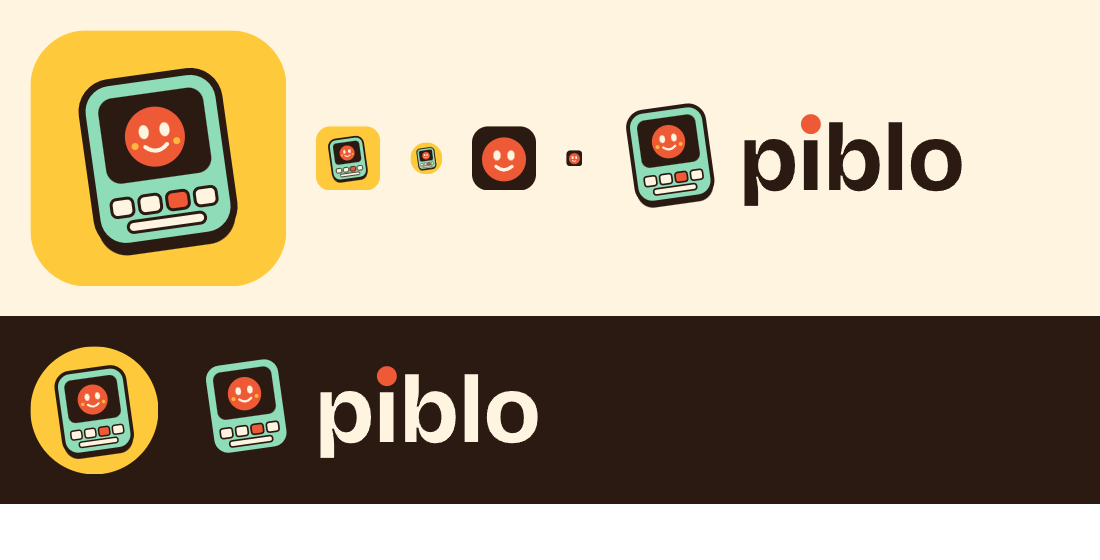
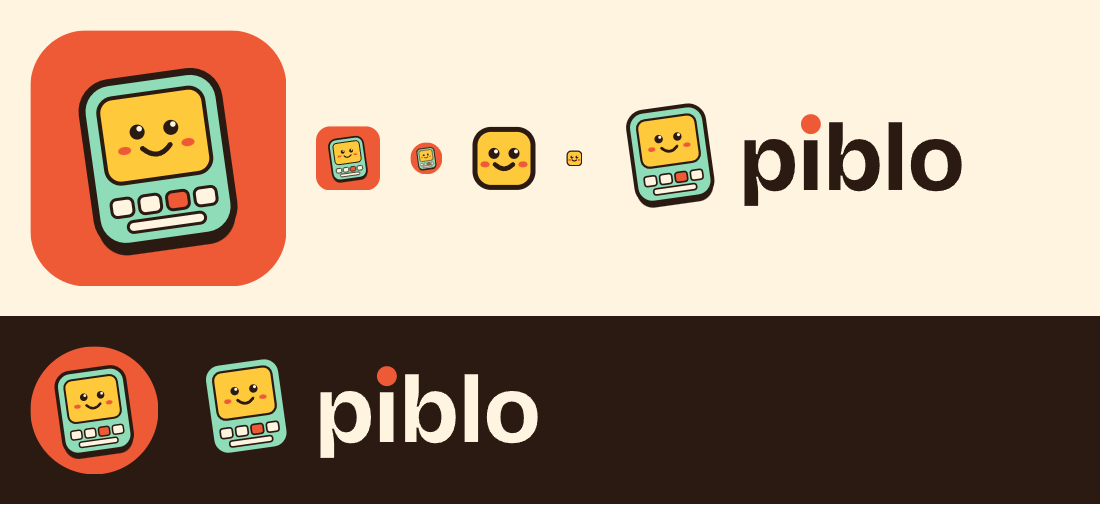
Brand v2: friendly screen-face Buddy (v1 read as creepy)
Claude-Session: https://claude.ai/code/session_01CpLvAvDdWL7C7trph2i8xh

diff --git a/design/brand/make.js b/design/brand/make.js
@@ -5,18 +5,36 @@ const font = opentype.loadSync(__dirname + '/../../site/fonts/bricolage-grotesqu
 const C = { paper: '#fff4e0', ink: '#2a1a12', tomato: '#ee5a36', mint: '#8fdcb8', sun: '#ffc93c' };
 
 // Buddy device drawn in a 512 box. bg=false gives a transparent version for the logo.
-function device(bg = true) {
-  return `${bg ? `<rect width="512" height="512" rx="112" fill="${C.sun}"/>` : ''}
+// Friendly faces on a bright screen (v1's pale eyes on a dark screen read as creepy).
+const FACES = {
+  // A: happy closed eyes + open grin
+  happy: `<rect x="150" y="124" width="212" height="172" rx="30" fill="${C.paper}" stroke="${C.ink}" stroke-width="8"/>
+    <circle cx="256" cy="212" r="64" fill="${C.tomato}" stroke="${C.ink}" stroke-width="8"/>
+    <path d="M222 204 Q234 188 246 204 M266 204 Q278 188 290 204" fill="none" stroke="${C.ink}" stroke-width="9" stroke-linecap="round"/>
+    <path d="M230 222 Q256 258 282 222 Z" fill="${C.ink}" stroke="${C.ink}" stroke-width="6" stroke-linejoin="round"/>
+    <circle cx="214" cy="228" r="9" fill="${C.sun}"/><circle cx="298" cy="228" r="9" fill="${C.sun}"/>`,
+  // B: round shiny eyes + wide smile
+  bright: `<rect x="150" y="124" width="212" height="172" rx="30" fill="${C.paper}" stroke="${C.ink}" stroke-width="8"/>
+    <circle cx="256" cy="212" r="64" fill="${C.tomato}" stroke="${C.ink}" stroke-width="8"/>
+    <circle cx="233" cy="202" r="12" fill="${C.ink}"/><circle cx="279" cy="202" r="12" fill="${C.ink}"/>
+    <circle cx="237" cy="197" r="4.5" fill="${C.paper}"/><circle cx="283" cy="197" r="4.5" fill="${C.paper}"/>
+    <path d="M232 228 Q256 250 280 228" fill="none" stroke="${C.ink}" stroke-width="9" stroke-linecap="round"/>
+    <circle cx="212" cy="228" r="8" fill="${C.sun}"/><circle cx="300" cy="228" r="8" fill="${C.sun}"/>`,
+  // C: face drawn on the screen itself, Tamagotchi style
+  screen: `<rect x="150" y="124" width="212" height="172" rx="30" fill="${C.sun}" stroke="${C.ink}" stroke-width="8"/>
+    <circle cx="222" cy="198" r="15" fill="${C.ink}"/><circle cx="290" cy="198" r="15" fill="${C.ink}"/>
+    <circle cx="227" cy="192" r="5.5" fill="${C.paper}"/><circle cx="295" cy="192" r="5.5" fill="${C.paper}"/>
+    <path d="M228 232 Q256 262 284 232" fill="none" stroke="${C.ink}" stroke-width="10" stroke-linecap="round"/>
+    <ellipse cx="192" cy="232" rx="13" ry="8" fill="${C.tomato}"/><ellipse cx="320" cy="232" rx="13" ry="8" fill="${C.tomato}"/>`,
+};
+let FACE = 'screen';
+function device(bg = true, face = FACE) {
+  const bgFill = face === 'screen' ? C.tomato : C.sun;
+  return `${bg ? `<rect width="512" height="512" rx="112" fill="${bgFill}"/>` : ''}
   <g transform="rotate(-8 256 262)">
     <rect x="118" y="110" width="276" height="330" rx="58" fill="${C.ink}"/>
     <rect x="118" y="92" width="276" height="330" rx="58" fill="${C.mint}" stroke="${C.ink}" stroke-width="14"/>
-    <rect x="150" y="124" width="212" height="172" rx="30" fill="${C.ink}"/>
-    <circle cx="256" cy="212" r="60" fill="${C.tomato}"/>
-    <ellipse cx="235" cy="200" rx="10" ry="14" fill="${C.paper}"/>
-    <ellipse cx="277" cy="200" rx="10" ry="14" fill="${C.paper}"/>
-    <path d="M234 230 Q256 250 278 230" fill="none" stroke="${C.paper}" stroke-width="8" stroke-linecap="round"/>
-    <circle cx="214" cy="226" r="7" fill="${C.sun}" opacity=".85"/>
-    <circle cx="298" cy="226" r="7" fill="${C.sun}" opacity=".85"/>
+    ${FACES[face]}
     ${[150, 206, 262, 318].map((x, i) => `<rect x="${x}" y="326" width="44" height="36" rx="11" fill="${i === 2 ? C.tomato : C.paper}" stroke="${C.ink}" stroke-width="6"/>`).join('\n    ')}
     <rect x="178" y="374" width="156" height="22" rx="11" fill="${C.paper}" stroke="${C.ink}" stroke-width="6"/>
   </g>`;
@@ -49,7 +67,7 @@ const out = (name, s) => fs.writeFileSync(__dirname + '/' + name, s.replace(/\n\
 
 out('piblo-icon.svg', `<svg xmlns="http://www.w3.org/2000/svg" viewBox="0 0 512 512"><title>Piblo</title>${device(true)}</svg>`);
 
-out('piblo-favicon.svg', `<svg xmlns="http://www.w3.org/2000/svg" viewBox="0 0 64 64"><rect width="64" height="64" rx="16" fill="${C.ink}"/><circle cx="32" cy="33" r="22" fill="${C.tomato}"/><ellipse cx="25" cy="29" rx="3.6" ry="5" fill="${C.paper}"/><ellipse cx="39" cy="29" rx="3.6" ry="5" fill="${C.paper}"/><path d="M24 40 Q32 47 40 40" fill="none" stroke="${C.paper}" stroke-width="3.4" stroke-linecap="round"/></svg>`);
+out('piblo-favicon.svg', `<svg xmlns="http://www.w3.org/2000/svg" viewBox="0 0 64 64"><rect x="3" y="3" width="58" height="58" rx="16" fill="${C.sun}" stroke="${C.ink}" stroke-width="5"/><circle cx="22" cy="27" r="5.5" fill="${C.ink}"/><circle cx="42" cy="27" r="5.5" fill="${C.ink}"/><circle cx="24" cy="25" r="2" fill="${C.paper}"/><circle cx="44" cy="25" r="2" fill="${C.paper}"/><path d="M23 38 Q32 47 41 38" fill="none" stroke="${C.ink}" stroke-width="4.5" stroke-linecap="round"/><ellipse cx="13" cy="38" rx="4.5" ry="3" fill="${C.tomato}"/><ellipse cx="51" cy="38" rx="4.5" ry="3" fill="${C.tomato}"/></svg>`);
 
 for (const [name, color] of [['piblo-logo.svg', C.ink], ['piblo-logo-light.svg', C.paper]]) {
   const w = wordmark(300, 400, 290, color);
@@ -57,3 +75,4 @@ for (const [name, color] of [['piblo-logo.svg', C.ink], ['piblo-logo-light.svg',
   out(name, `<svg xmlns="http://www.w3.org/2000/svg" viewBox="0 0 ${W} 380"><title>Piblo</title><defs>${w.clip}</defs><g transform="translate(-40 -50) scale(0.88)">${device(false)}</g>${w.svg}</svg>`);
 }
 console.log('ok');
+for (const f of Object.keys(FACES)) out(`v-${f}.svg`, `<svg xmlns="http://www.w3.org/2000/svg" viewBox="0 0 512 512">${device(true, f)}</svg>`);
